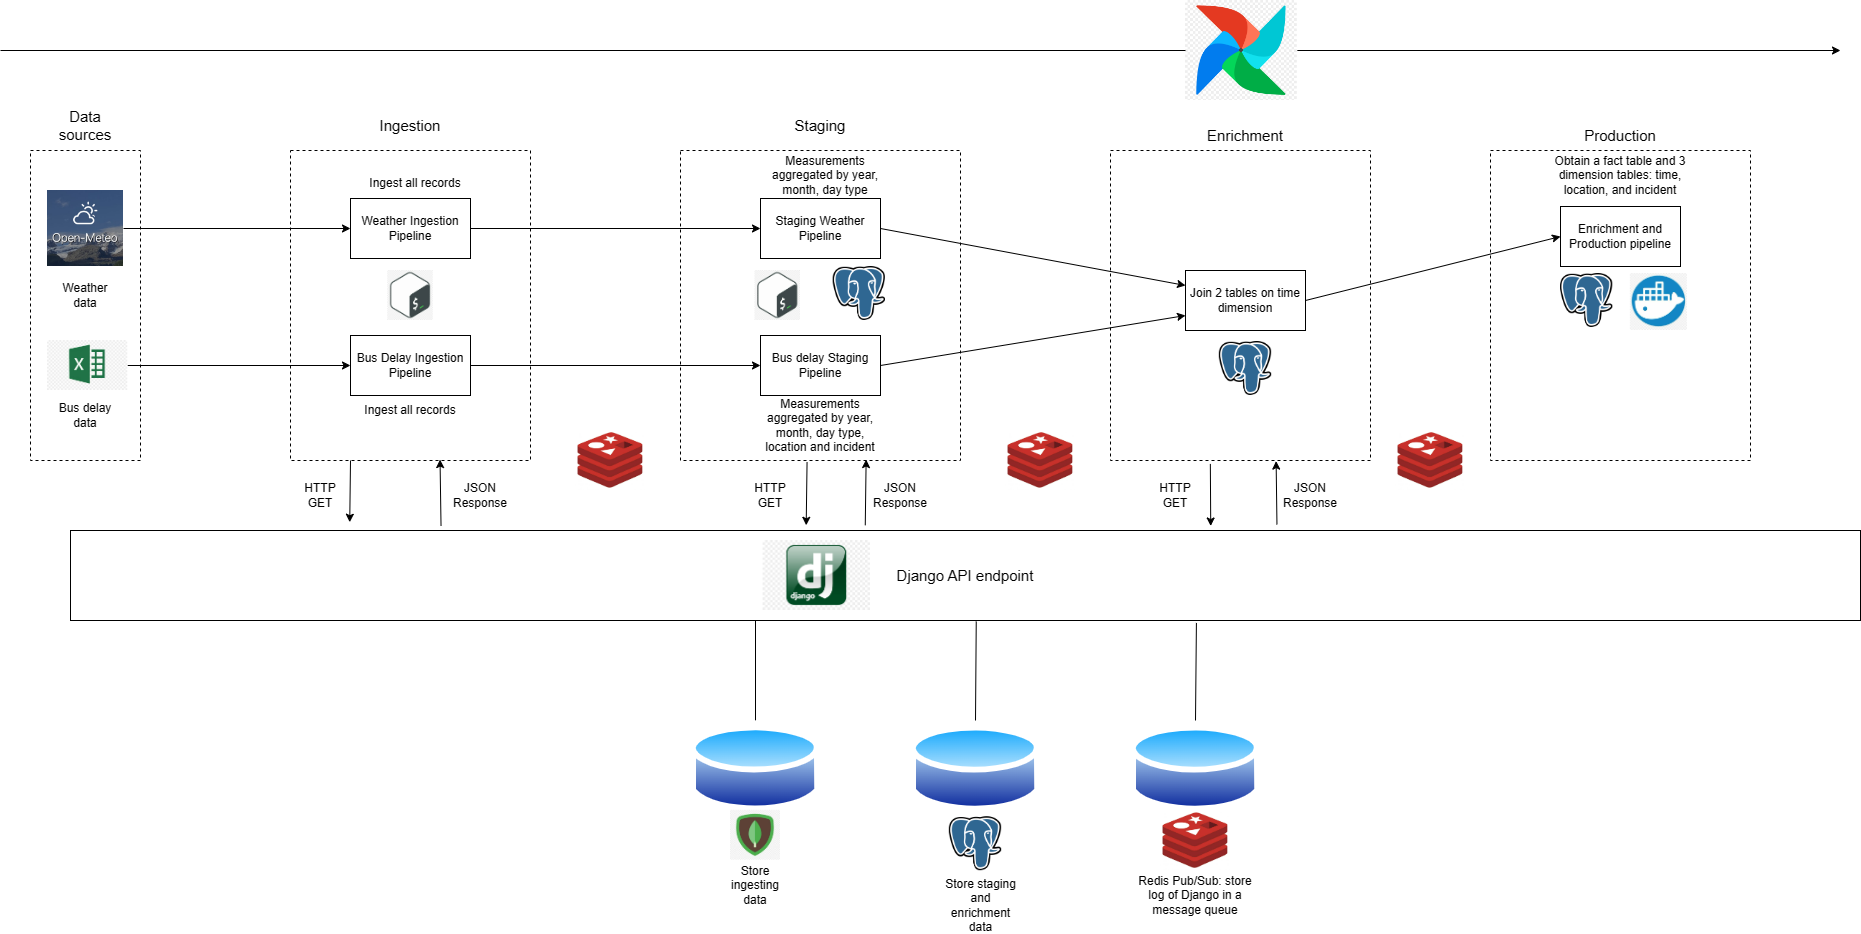
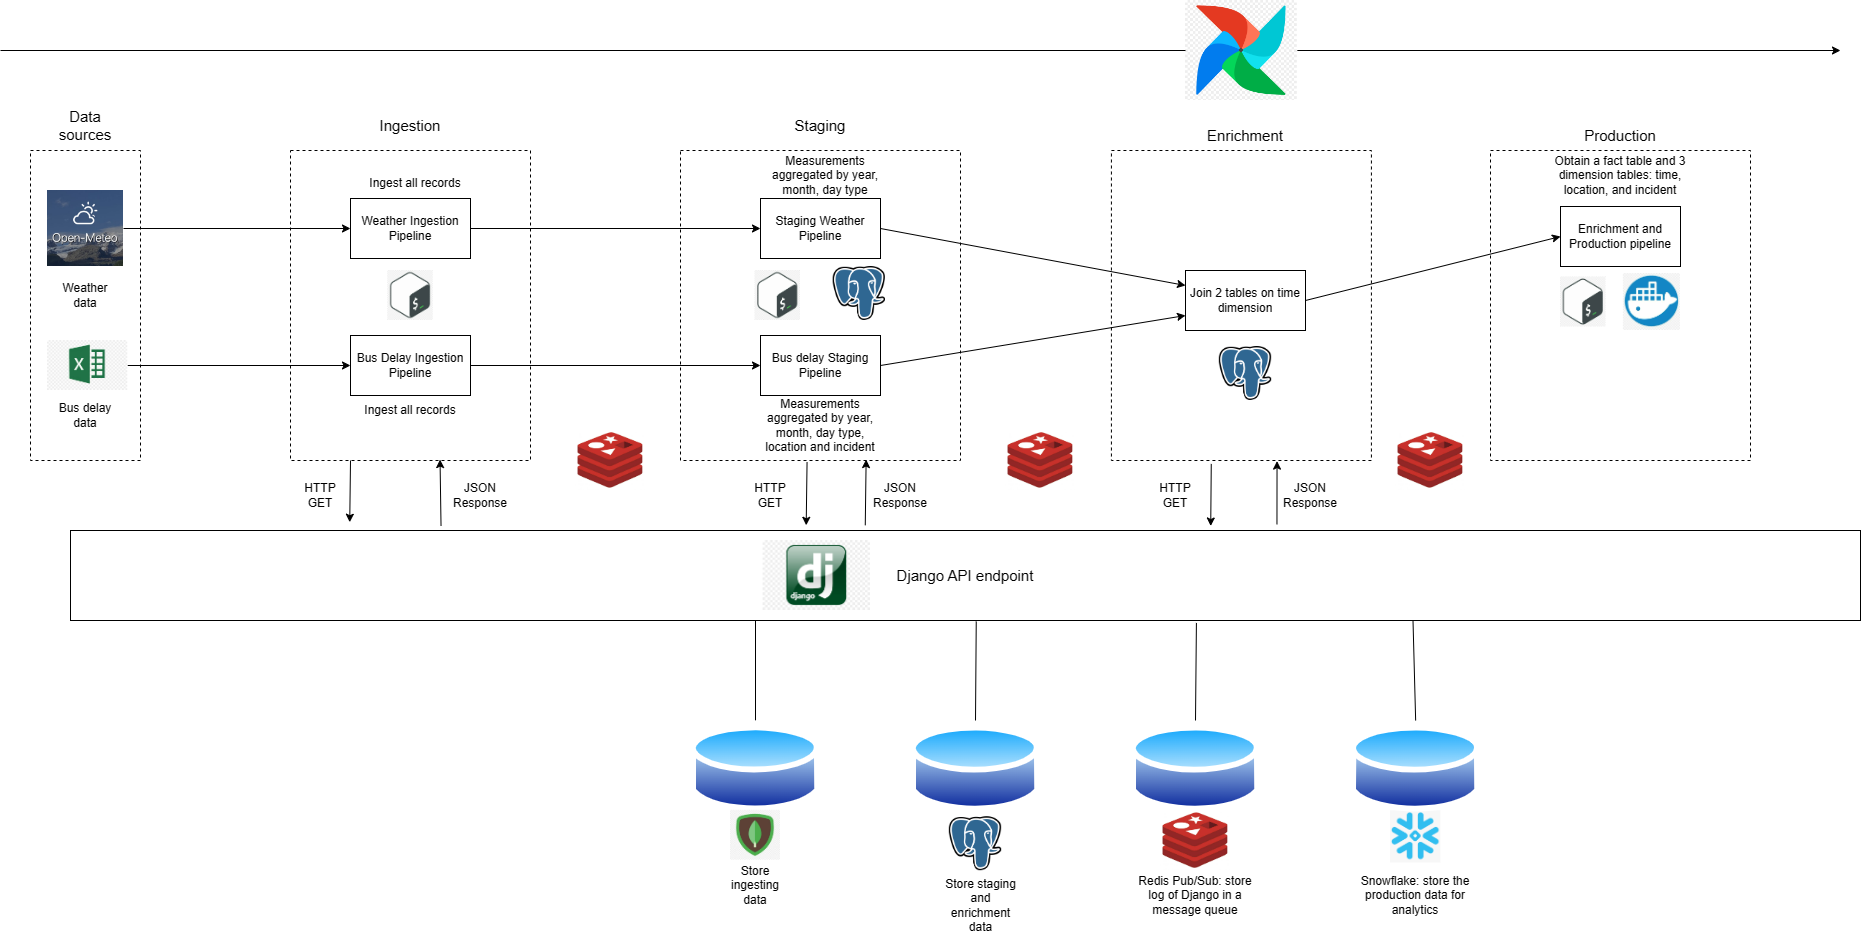
resolve conflict in README

diff --git a/README.md b/README.md
@@ -73,6 +73,11 @@ We extract the bus delay data and the weather data from the PostgreSQL database,
 
 ## Production
 
+We extract the data from the PostgreSQL database, then load it into the star schema on Snowflake. The data pipeline is shown in the figure below.
+
+# Presentation
+- Presentation available [here](https://docs.google.com/presentation/d/1dOCUSrn3HKGtE6lQaHa4q8Igz6fDY4AQtRPbG2OfbhQ/edit?usp=sharing)
+
 # Future development
 - [ ] Add more data sources
 - [ ] Add more data pipelines
@@ -85,8 +90,8 @@ We extract the bus delay data and the weather data from the PostgreSQL database,
 - [ ] Detailed description of the various steps
 - [x] Report with the project design steps divided per area
 - [x] Example dataset: the project testing should work offline, i.e., you need to have some sample data points.
-- [ ] Slides for the project presentation. You can do them too in markdown too.
-- [ ] Use airflow + pandas + mongodb + postgres + neo4j
+- [x] Slides for the project presentation. You can do them too in markdown too.
+- [x] Use airflow + pandas + mongodb + postgres
 - [x] Using REDIS for speeding up steps
 - [x] STAR schema design includes maintenance upon updates
 - [ ] Creativity: data viz, serious analysis, performance analysis, extensive cleansing.
@@ -162,20 +167,13 @@ You need to build the Star Schema image used by DockerOperator using the followi
 docker build -t nmngo248/star-schema:latest ./star_schema
 ```
 
-After running all the enrichment & production pipeline, if you want to extract the csv files from the PostgreSQL database, you can use the following command:
-```bash
-docker cp postgres:/var/lib/postgresql/data/time_dim.csv /path/to/your/folder
-docker cp postgres:/var/lib/postgresql/data/location_dim.csv /path/to/your/folder
-docker cp postgres:/var/lib/postgresql/data/incident_dim.csv /path/to/your/folder
-docker cp postgres:/var/lib/postgresql/data/fact_table.csv /path/to/your/folder
-```
-
 # References
 
 # License
 
 # Contact
 - [Minh NGO](mailto:ngoc-minh.ngo@insa-lyon.fr)
+- [Yazid SBAI](mailto:yazid.sbai@insa-lyon.fr)
 
 # Acknowledgements
 - [INSA Lyon](https://www.insa-lyon.fr/en/)
